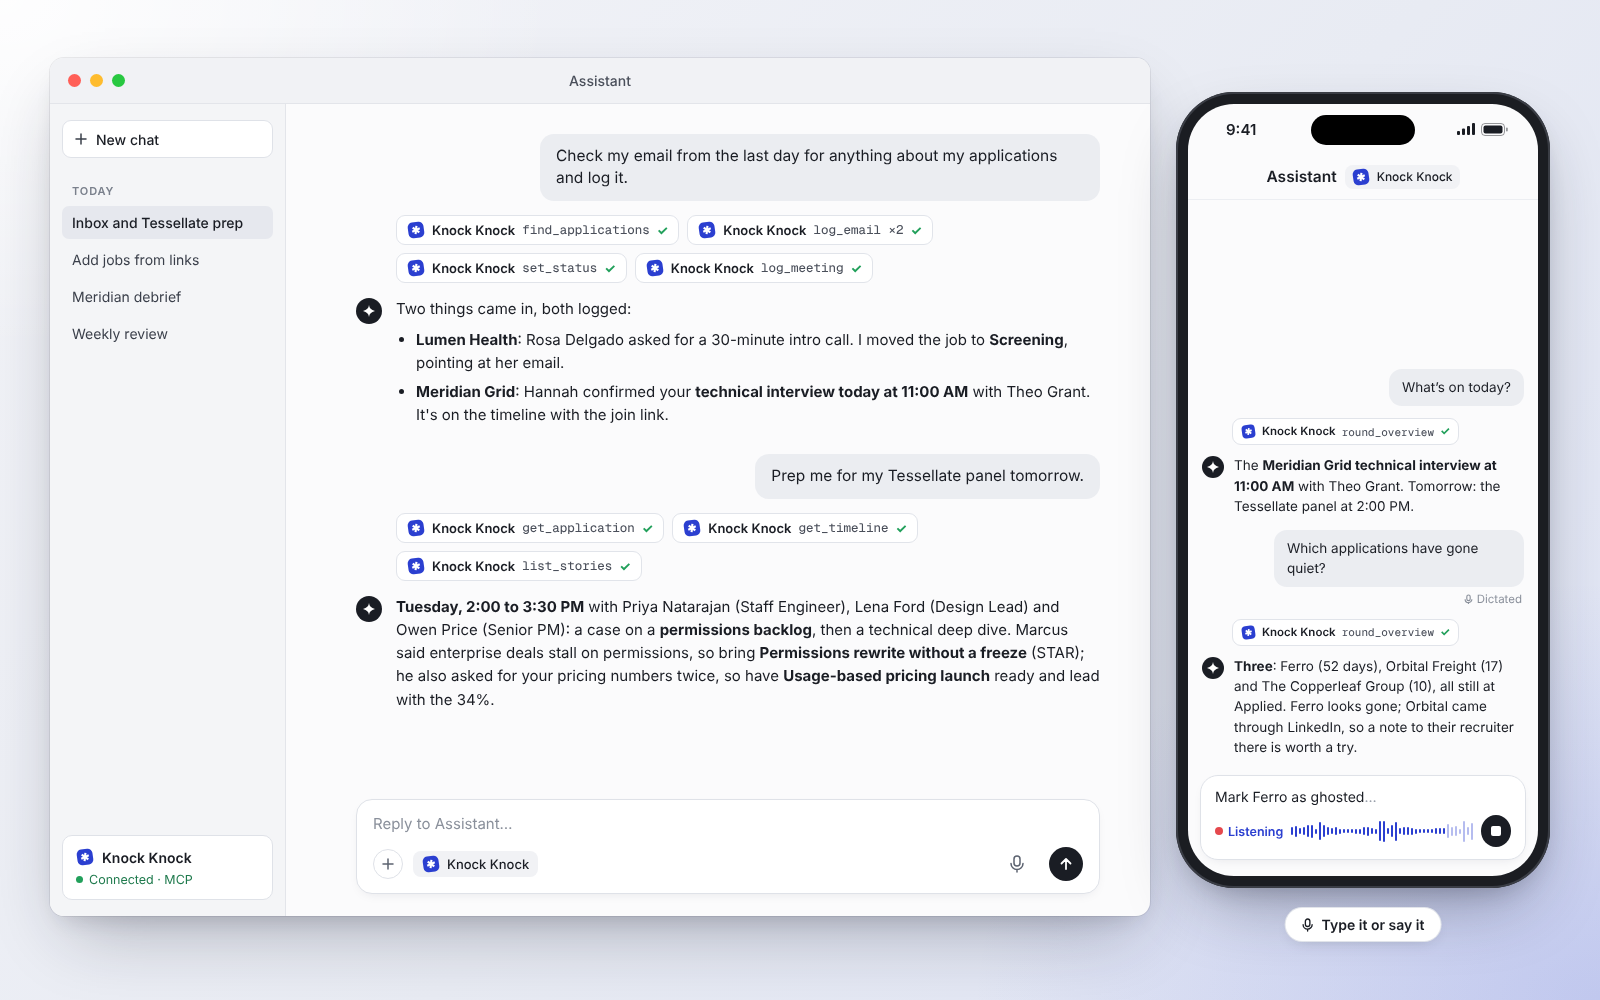
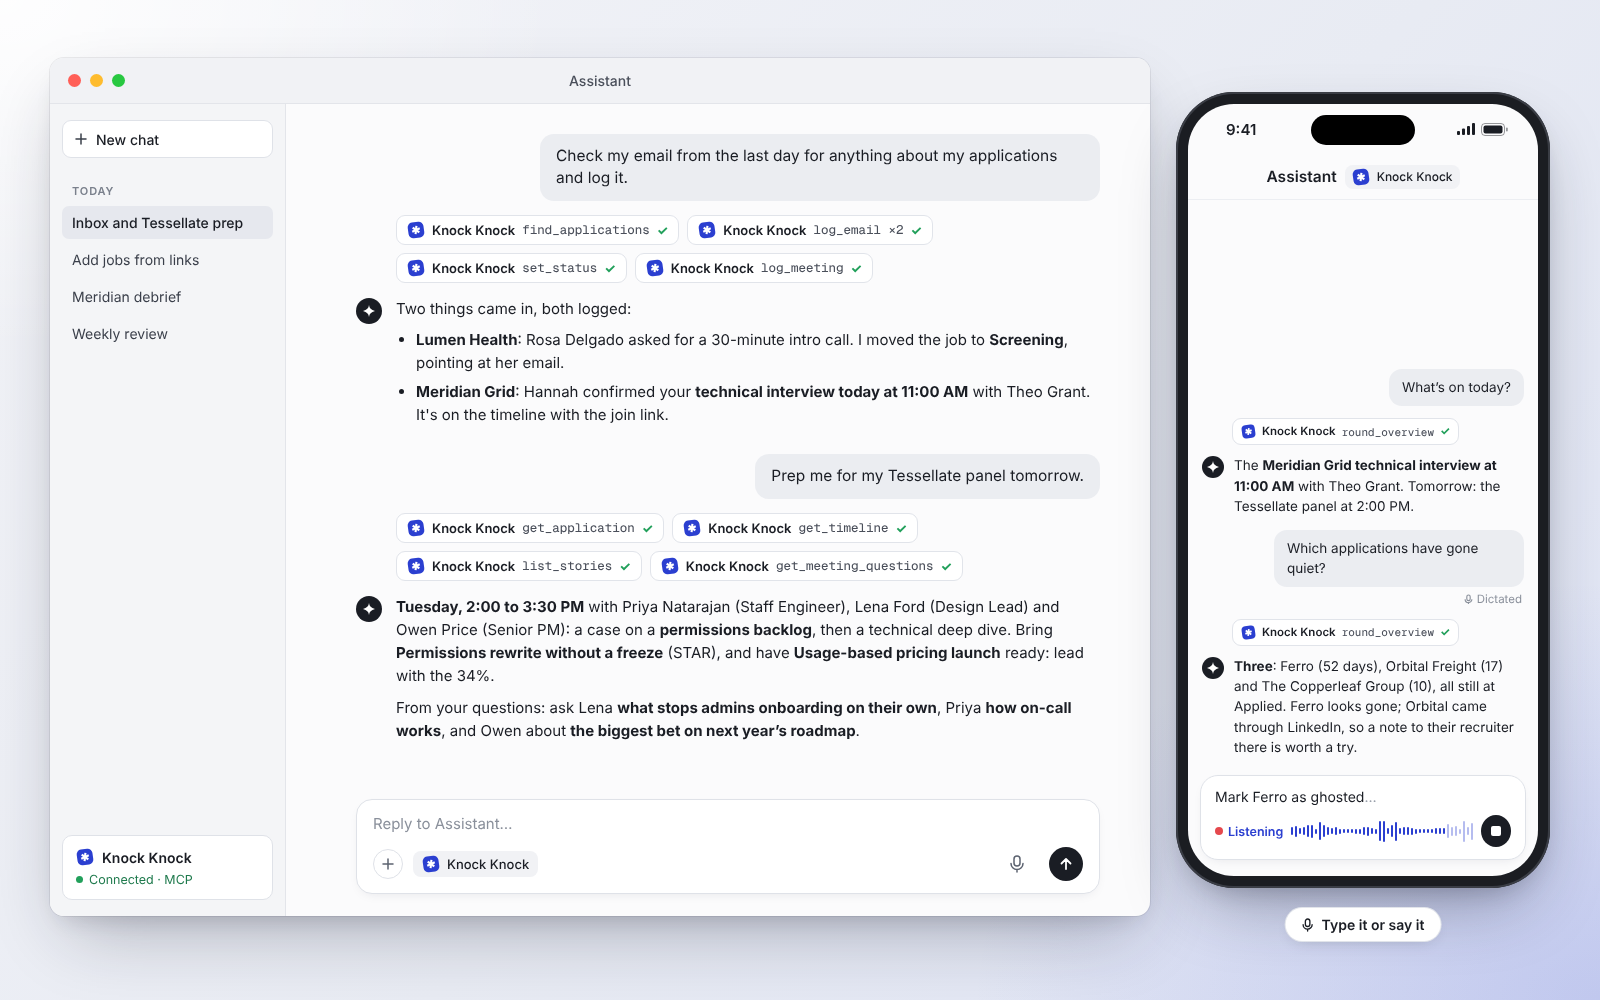
README: the assistant image shows questions
Claude-Session: https://claude.ai/code/session_01PCXyg1odGgu7ewnwgy9TLQ

Changed region(s): [[0.25, 0.62, 0.6875, 0.744], [0.4062, 0.558, 0.5938, 0.589]]

diff --git a/README.md b/README.md
@@ -243,7 +243,7 @@ Once a day your copy tells Knock Knock's developer that it exists: a random id i
 
 Knock Knock includes an [MCP](https://modelcontextprotocol.io) server at `https://<your-knock-knock>/mcp`. Open **Settings → Connect an AI assistant** to copy your URL and see steps for Claude, ChatGPT, Claude Code and others. When an assistant connects, Knock Knock shows a sign-in page; enter your password to approve it. **Settings → Connect an AI assistant** also lists what's connected and can sign them all out.
 
-![An AI assistant connected to Knock Knock: on a laptop it logs the day's emails, moves Lumen Health to Screening and adds a technical interview, then preps a Tessellate panel with the people in the room and two matching STAR stories; on a phone it says what's on today and which applications have gone quiet](docs/screenshots/ai-chat.png)
+![An AI assistant connected to Knock Knock: on a laptop it logs the day's emails, moves Lumen Health to Screening and adds a technical interview, then preps a Tessellate panel with the people in the room, two stories to bring and a question from the job's list for each interviewer; on a phone it says what's on today and which applications have gone quiet](docs/screenshots/ai-chat.png)
 
 ### How the agent flows work
 
